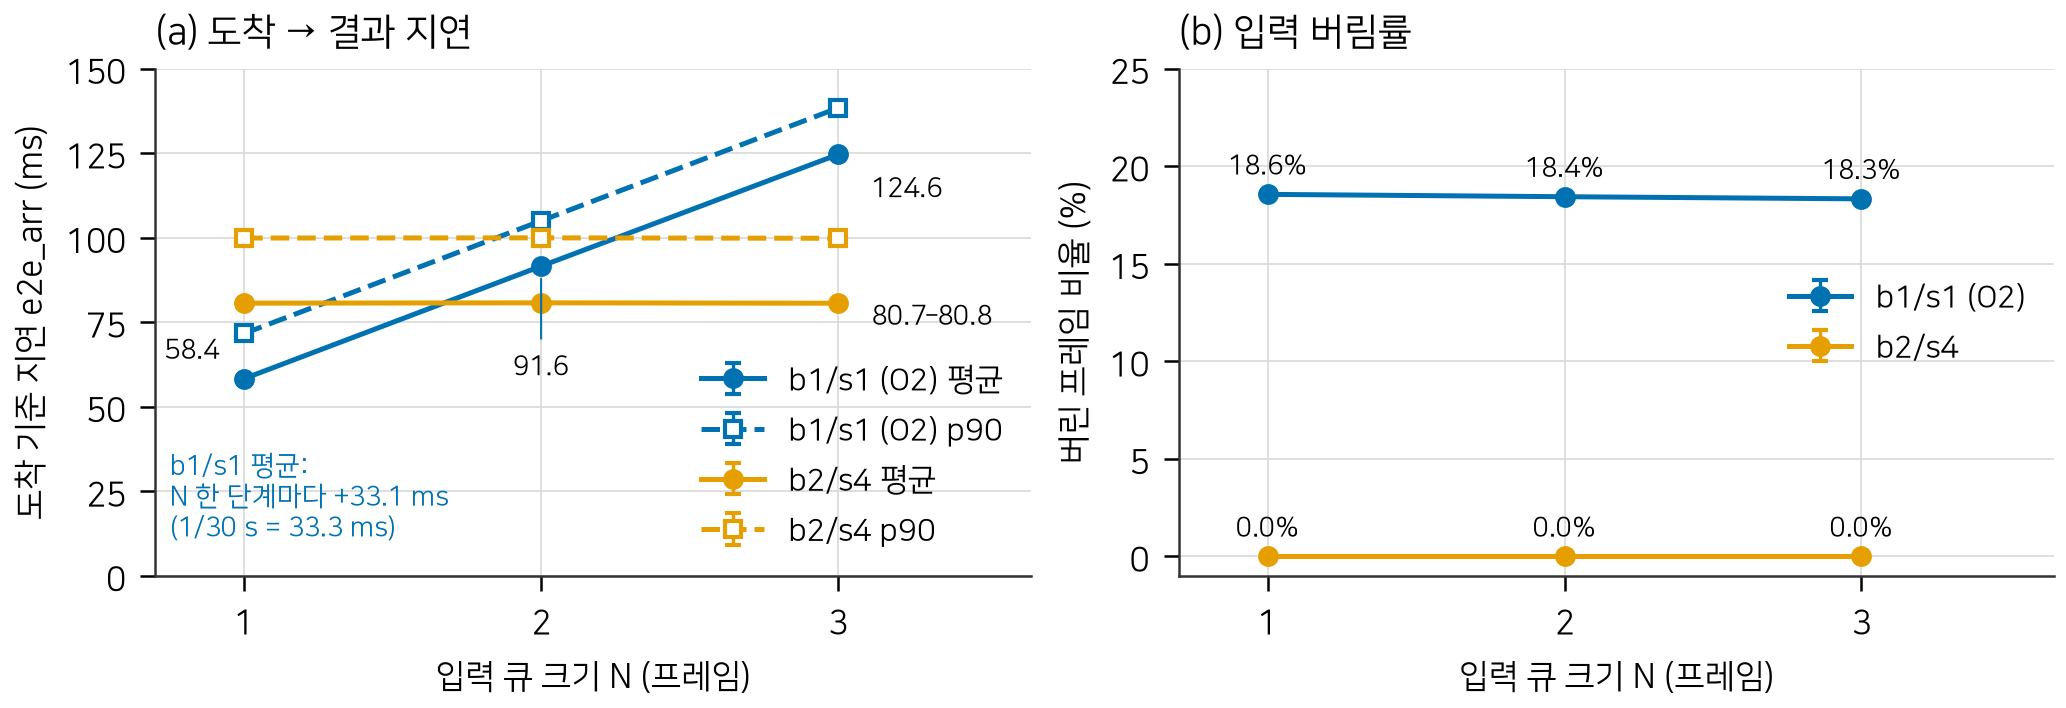
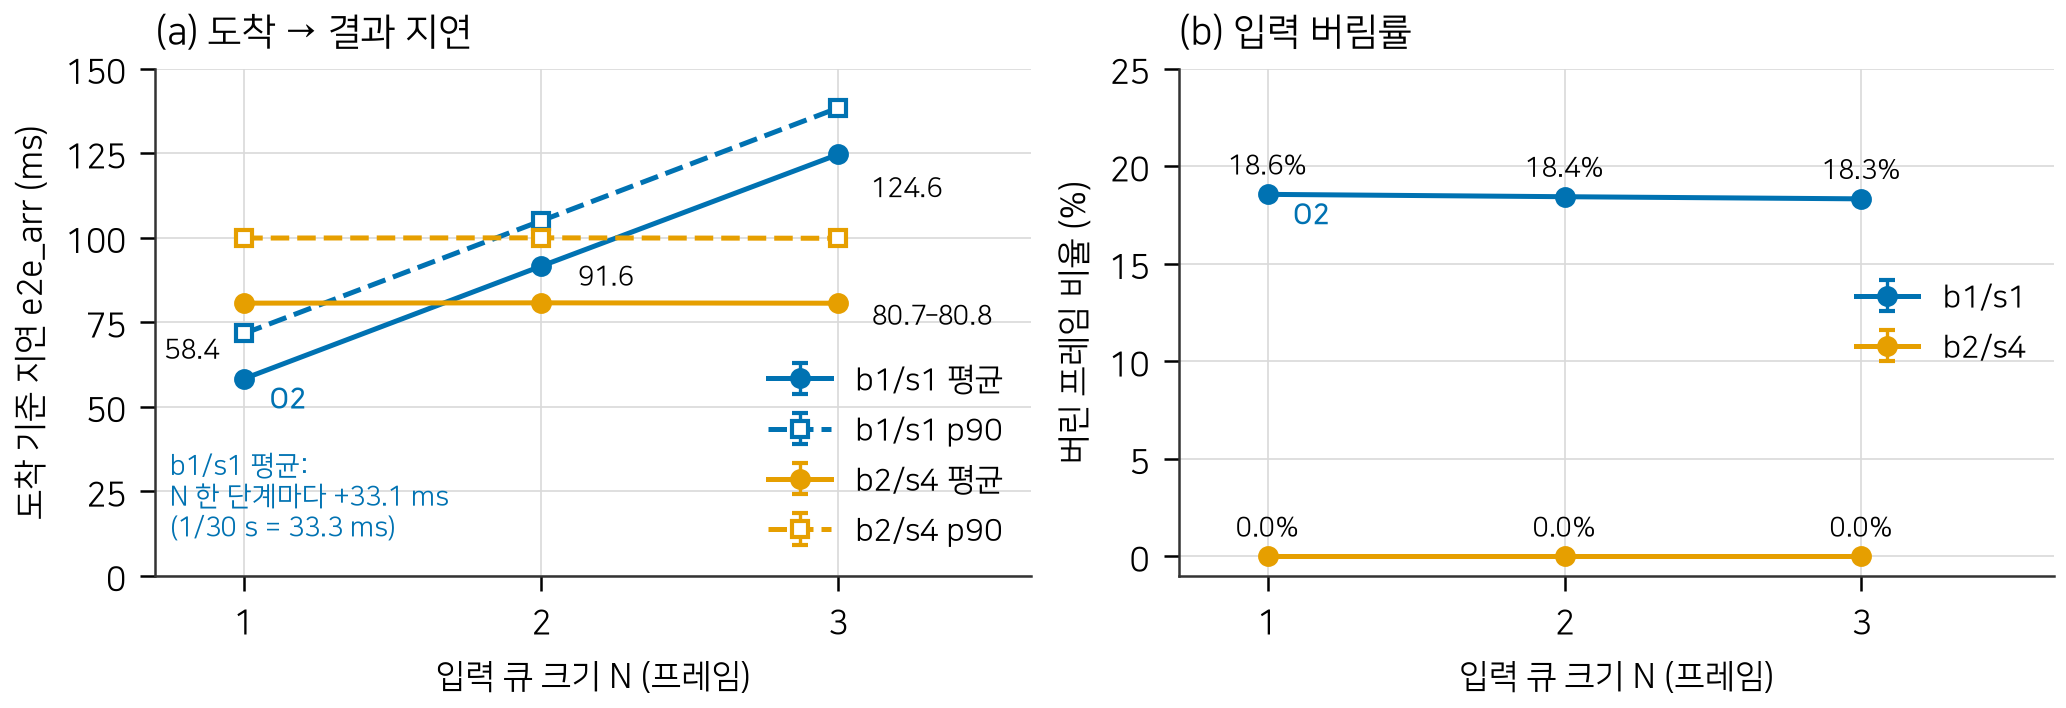
bench: display_bench.sh 에 컴포지터(labwc) CPU 기록 — 61열, proc_stat 잠복 종료 버그 수정
- display_bench.sh: 모든 설정에서 실행 전후 labwc /proc stat(raw/<run>/labwc_stat_{pre,post}.txt),
  CSV 끝 labwc_cpu_ms·labwc_cpu_ms_per_frame(59 → 61열), 집계에 nan 제외 중앙값. 옛 48·53·59열과 APPEND 불가
  (vulkan-expert). 논문 헤드라인 CPU 에 컴포지터 몫을 같은 회차로 더하기 위함(paper-reviewer 3차 M1)
- lib/common.sh: proc_stat·stat_ticks 를 display_planes_bench.sh 에서 옮기고 labwc_pid·labwc_cpu_cols 추가.
  proc_stat 은 $(< 없는파일) 이 set -e 에서 벤치를 끝내던 경로를 cat 으로 고침(정상 출력 바이트 동일)
- fig05_input_queue.py: N=2 라벨 지시선 제거(오차 막대로 오독), O2 표기는 N=1 점에만 — 그림 5 재생성
- measure 스킬·06_tools/README.md·README.md: 61열 표기

결정: 헤드라인 CPU 는 같은 회차에서 응용 + 컴포지터로 재측정한다 (사용자 결정, 2026-10-16)

Claude-Session: https://claude.ai/code/session_01UJi8CxmzgcP5FEorqrqyve

diff --git a/06_tools/python/paper/fig05_input_queue.py b/06_tools/python/paper/fig05_input_queue.py
@@ -15,7 +15,8 @@ import paper_style as ps
 
 STEM = "fig05_input_queue"
 SRC = ps.RESULTS / "input_pacing" / "runs" / "code_2f2d3d0" / "results_raw.csv"
-CONFIGS = (("b1s1", "b1/s1 (O2)", ps.PALETTE[0]), ("b2s4", "b2/s4", ps.PALETTE[1]))
+CONFIGS = (("b1s1", "b1/s1", ps.PALETTE[0]), ("b2s4", "b2/s4", ps.PALETTE[1]))
+O2_QUEUE = 1   # operating point O2 is b1/s1 with N=1 only: marked on that point, not in the legend
 QUEUES = (1, 2, 3)
 METRICS = ("e2e_arr_mean", "e2e_arr_p90", "drop_rate")
 
@@ -53,11 +54,15 @@ def main(out_dir: str | Path | None = None) -> list[Path]:
             p90 = ps.median_min_max(d[n]["e2e_arr_p90"])
             drop = ps.median_min_max(d[n]["drop_rate"])
             if cfg == "b1s1":   # b2/s4 is flat: labelled once at its right end below
-                # offsets keep every label clear of the lines; N=2 sits between the lines with a leader
-                off, ha, arrow = {QUEUES[0]: ((-6, 5), "right", None), QUEUES[-1]: ((8, -10), "left", None)}.get(
-                    n, ((0, -24), "center", {"arrowstyle": "-", "color": col, "lw": 0.5, "shrinkA": 1, "shrinkB": 3}))
+                # offsets keep every label clear of the lines; no leader lines (they read as error bars)
+                off, ha, va = {QUEUES[0]: ((-6, 5), "right", "baseline"), QUEUES[-1]: ((8, -10), "left", "baseline")}.get(
+                    n, ((9, -2.5), "left", "center"))   # N=2: right of the point, between b1/s1 and b2/s4 mean lines
                 ax1.annotate(ps.fmt_half_up(mean[0]), (n, mean[0]), textcoords="offset points", xytext=off,
-                             ha=ha, va="center" if arrow else "baseline", fontsize=6.5, arrowprops=arrow)
+                             ha=ha, va=va, fontsize=6.5)
+                if n == O2_QUEUE:
+                    for ax, y in ((ax1, mean[0]), (ax2, 100 * drop[0])):
+                        ax.annotate("O2", (n, y), textcoords="offset points", xytext=(6, -5), ha="left",
+                                    va="center", fontsize=6.5, fontweight="bold", color=col)
             ax2.annotate(f"{ps.fmt_half_up(100 * drop[0])}%", (n, 100 * drop[0]), textcoords="offset points", xytext=(0, 5),
                          ha="center", fontsize=6.5)
             lines.append(f"{cfg} N={n}: runs {len(d[n]['e2e_arr_mean'])}, e2e_arr mean {mean[0]:.2f} "

diff --git a/06_tools/README.md b/06_tools/README.md
@@ -12,7 +12,7 @@ CMake 빌드에 들어가지 않는 것들이다. 빌드 대상 코드는 [`01_s
 | 스크립트 | 무엇을 재나 | 출력 |
 |---|---|---|
 | `op_point_bench.sh` | 운용점 스윕 (batch·slots) — 최종 결론의 근거 | `07_results/op_point/` |
-| `display_bench.sh` | 화면 표시 포함 종단간. `results_raw.csv` 59열(RESULT_CSV 22 + RESULT_CSV2 뒤 33 + 스크립트 4) — 48·53열 옛 CSV 와 `APPEND=1` 불가 | `07_results/display_e2e/` |
+| `display_bench.sh` | 화면 표시 포함 종단간. `results_raw.csv` 61열(RESULT_CSV 22 + RESULT_CSV2 뒤 33 + 스크립트 4 + labwc CPU 2, 실행마다 `labwc_stat_{pre,post}.txt`) — 48·53·59열 옛 CSV 와 `APPEND=1` 불가 | `07_results/display_e2e/` |
 | `pipeline_bench.sh` | 회귀 기준선 (고정 9설정) | `07_results/pipeline_ffmpeg_vulkan_hailo/` |
 | `gst_pipeline_bench.sh` | 앱(`yvo_pipeline` dmabuf/NHCW) 대 GStreamer 연구 경로(`yvo_gst_pipeline --sink hailo`), batch 1/4/8 × 같은 slots. `results_raw.csv`·`results.csv` 앞 26열은 `pipeline_bench.sh` 와 같고 뒤에 도구 열이 붙는다(gst `decode_ms_mean` = nan, NaN 안전 중앙값). 바이너리는 `APP_BIN`·`GST_BIN`, `DETS=1` 검출 비교(`evidence/compare_b<B>`), `DRYRUN=1` 명령줄만 출력 | `07_results/gst_pipeline/` |
 | `dec_threads_bench.sh` | 앱의 FFmpeg HEVC 프레임 스레드 수(`YVO_DEC_THREADS`) — nhcw b8/s16 스레드 스윕(1·2·3·4·auto) + 모드별 auto 대 1 회귀 A/B(ptr·nhwc·b1·b4·gpu 후처리·지연·표시). 설정 형식 `id|threads|frames|args`(auto = 변수 제거). `results_raw.csv` 65열(스크립트 10 + RESULT_CSV 22 + RESULT_CSV2 33), NaN 안전 중앙값. 기본 매 실행 전 냉각(`COOL_EVERY=1`), 표시 실행은 `wlr-randr` HDMI-A-1 확인 + `timeout -s KILL 90`, `SKIP_DISPLAY=1`, `DRYRUN=1` | `07_results/dec_threads/` |

diff --git a/.claude/skills/measure/SKILL.md b/.claude/skills/measure/SKILL.md
@@ -27,7 +27,7 @@ description: >
 |---|---|---|
 | `pipeline_bench.sh` | 전체 파이프라인. `{mode} × {layout} × {batch/slots} × RUNS` | `07_results/pipeline_ffmpeg_vulkan_hailo/` |
 | `op_point_bench.sh` | 운용점 스윕(batch·slots·gpu_depth·postproc·display) | `07_results/op_point/` |
-| `display_bench.sh` | 표시 통합 e2e (RESULT_CSV + RESULT_CSV2 병합, 59열 — 48·53열 옛 CSV 와 섞지 않는다. 앞 프레임 제외 없음 = `--display-warmup 0`) | `07_results/display_e2e/` |
+| `display_bench.sh` | 표시 통합 e2e (RESULT_CSV + RESULT_CSV2 병합, 61열 — 끝 2열 `labwc_cpu_ms`·`labwc_cpu_ms_per_frame` = 컴포지터 labwc CPU(표시 off 포함 매 실행, `raw/<run>/labwc_stat_{pre,post}.txt`). 48·53·59열 옛 CSV 와 섞지 않는다. 앞 프레임 제외 없음 = `--display-warmup 0`) | `07_results/display_e2e/` |
 | `decode_bench.sh` | 디코드 경로 비교 | `07_results/decode_benchmark/` |
 | `backpressure_bench.sh` | 백프레셔 전후 비교 | `07_results/raw_runner_backpressure/` |
 | `isp_bench.sh` | ISP 전처리 단독(NPU 미사용) | `07_results/isp_resize/` |

diff --git a/README.md b/README.md
@@ -303,7 +303,7 @@ python 06_tools/python/compare_detections.py ref/detections.jsonl test/detection
 
 ```bash
 bash 06_tools/bench/op_point_bench.sh    # 운용점 스윕 (배치·슬롯)
-bash 06_tools/bench/display_bench.sh     # 표시 e2e (M5a 기준선 + M4). CSV 59열 — 이전(48·53열) CSV 와 APPEND 불가
+bash 06_tools/bench/display_bench.sh     # 표시 e2e (M5a 기준선 + M4). CSV 61열(끝 2열 컴포지터 labwc CPU) — 이전(48·53·59열) CSV 와 APPEND 불가
 bash 06_tools/bench/pipeline_bench.sh    # 기존 9설정 회귀 기준선
 bash 06_tools/bench/decode_bench.sh      # 디코드 경로 비교
 bash 06_tools/bench/dec_threads_bench.sh # 디코더 프레임 스레드 수 스윕 + 자동 대 1스레드 회귀 A/B
